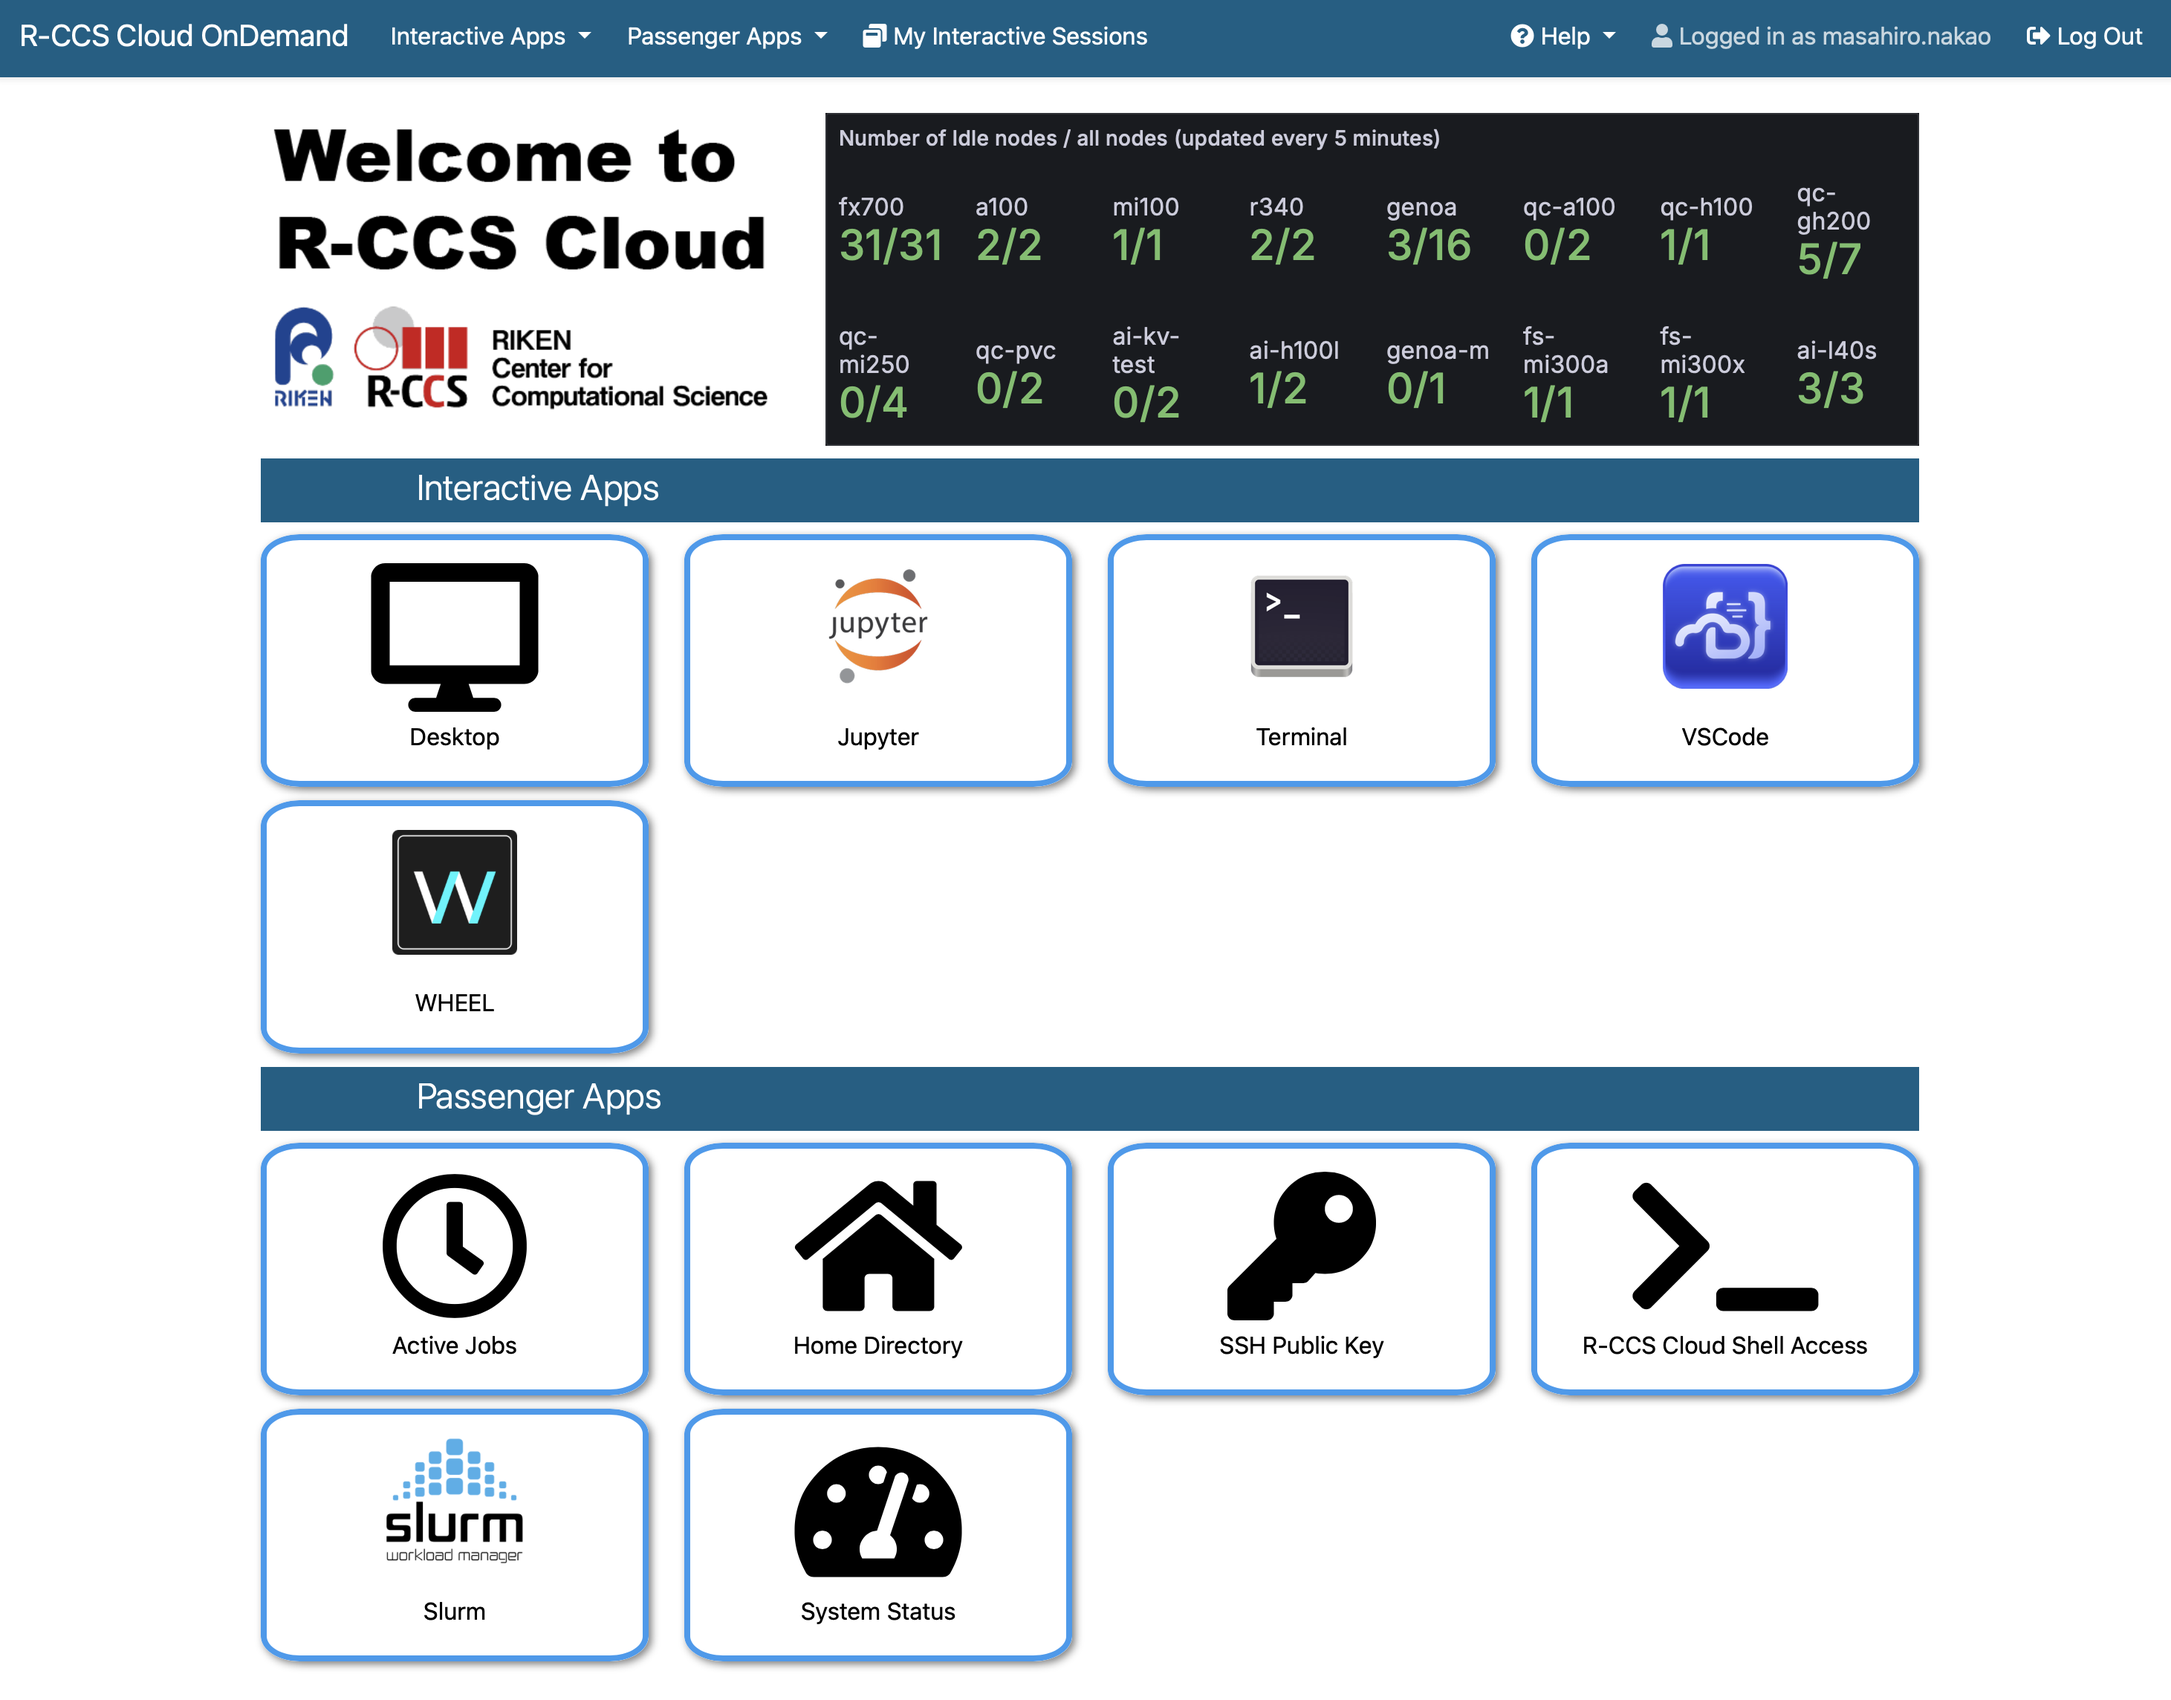
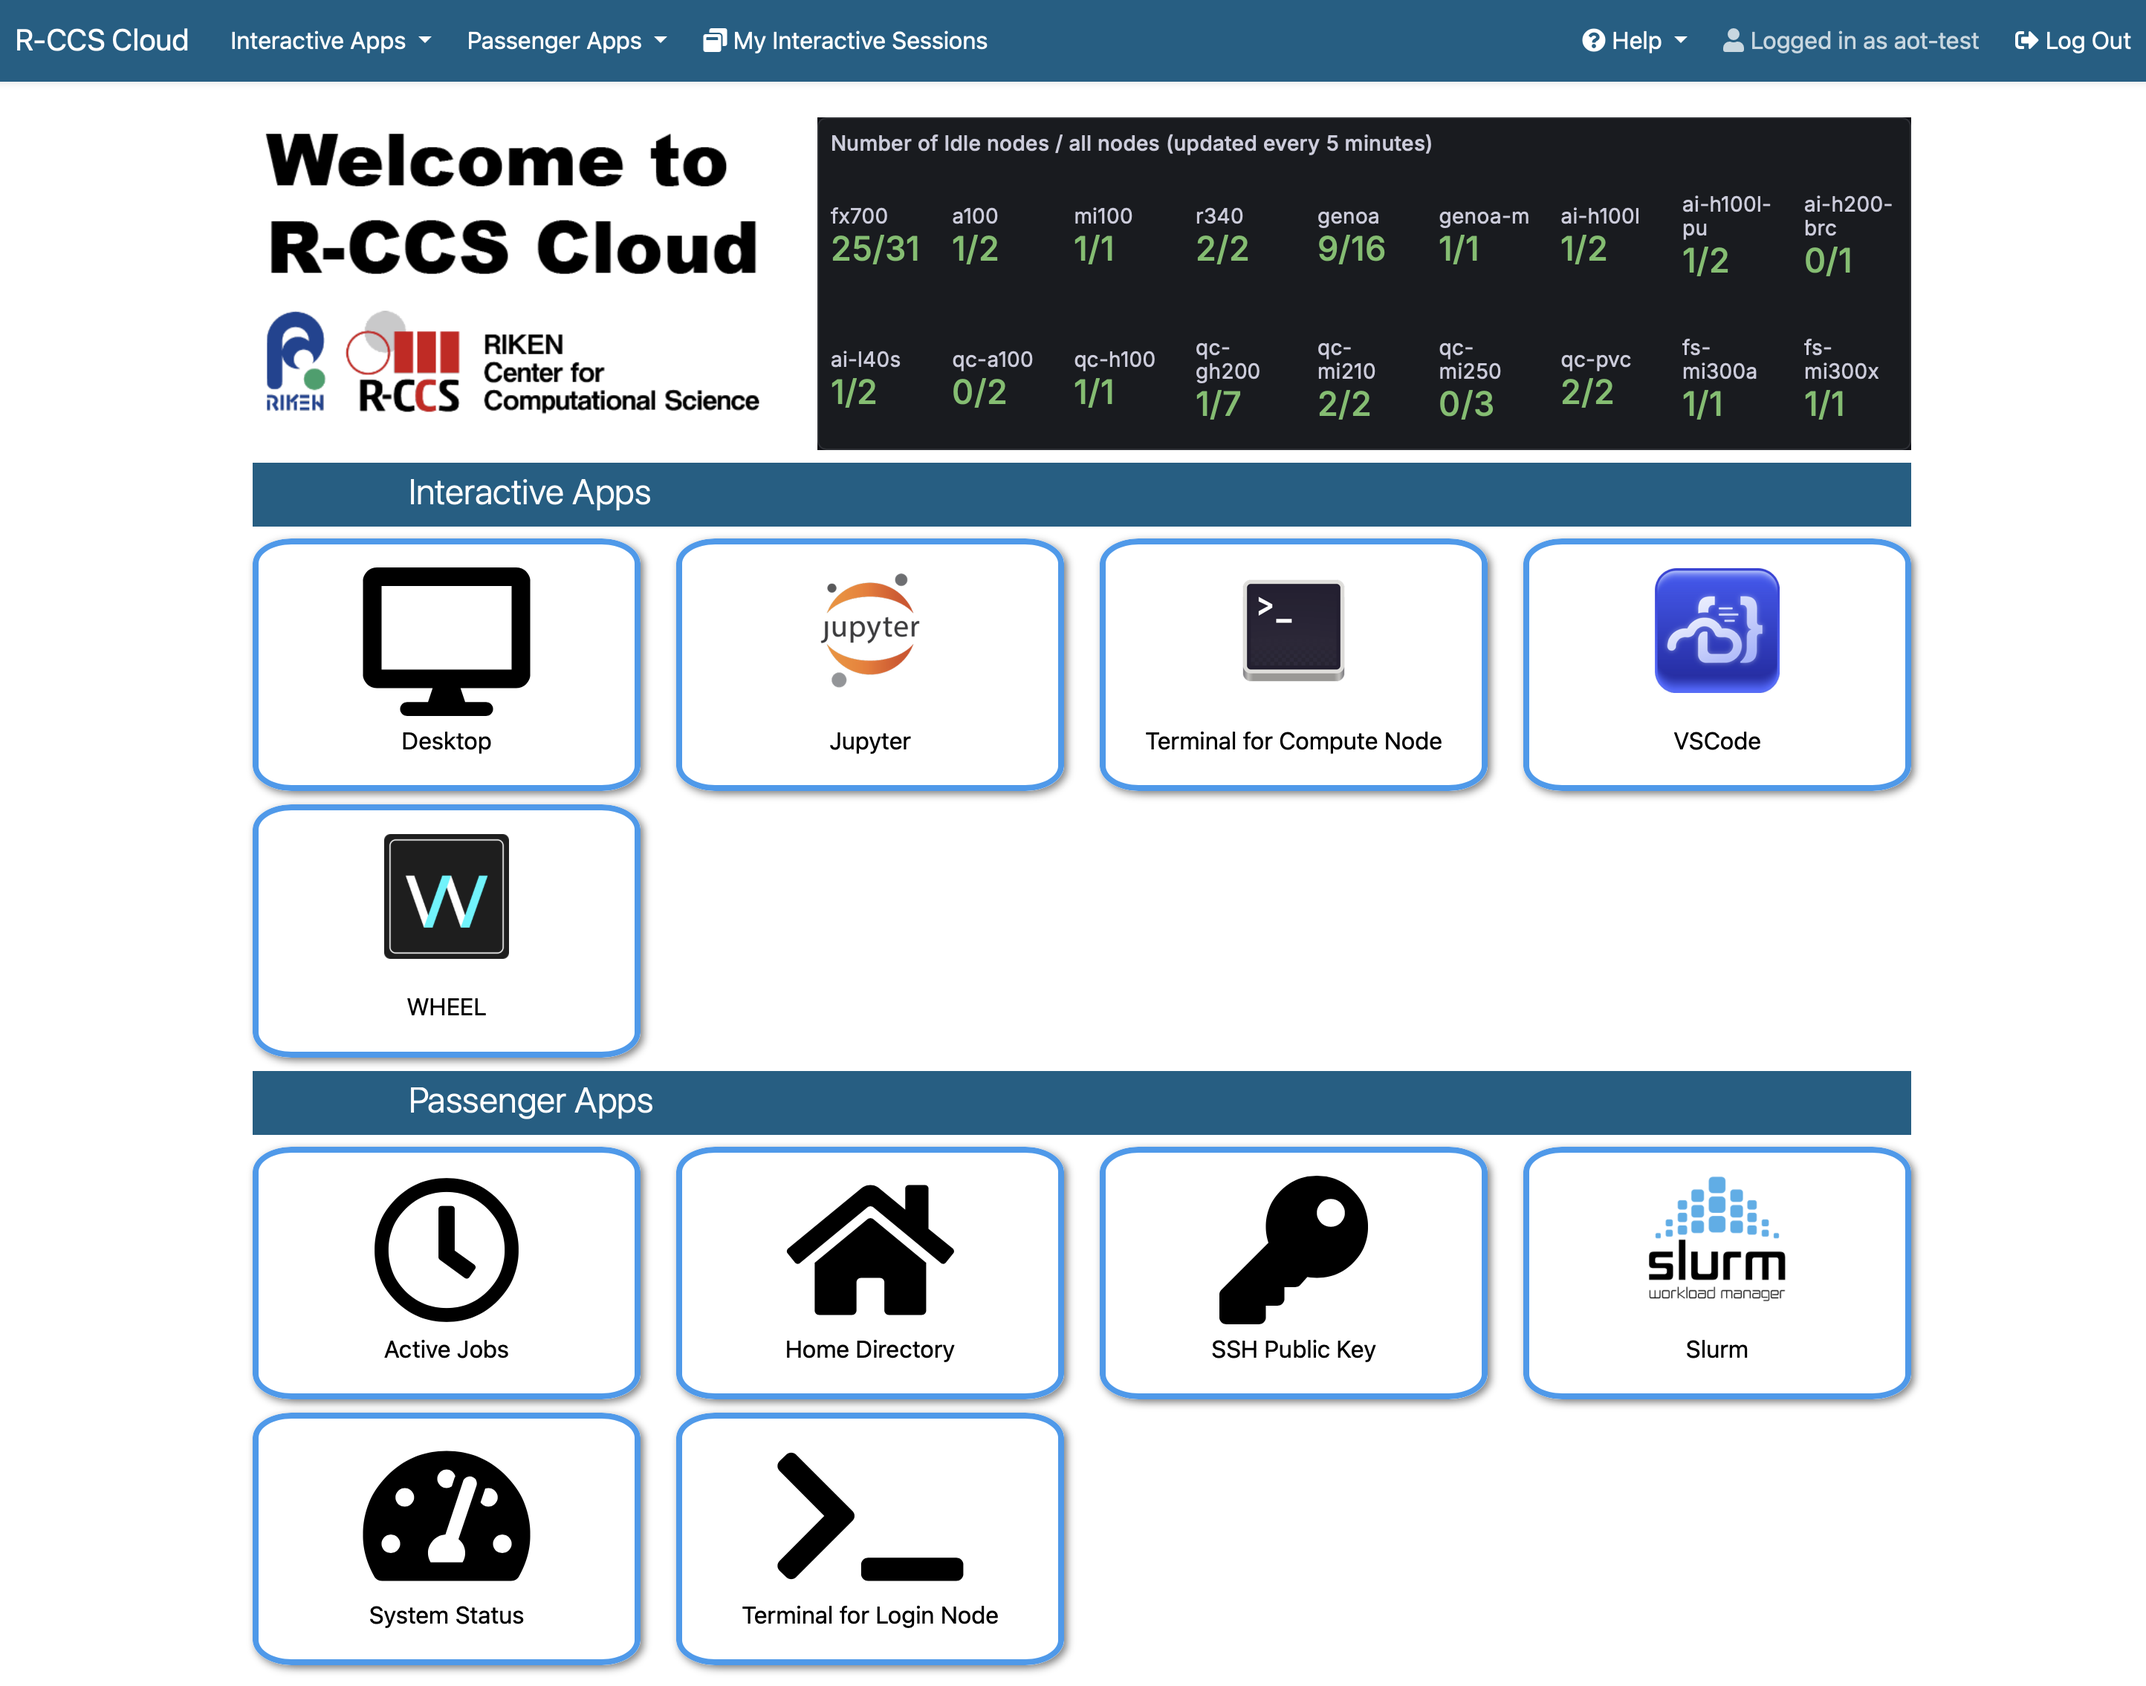
Change terminal application name

Changed region(s): [[0.0, 0.0, 0.9972, 1.0]]

diff --git a/docs/ood_ja.html b/docs/ood_ja.html
@@ -87,7 +87,7 @@
       <p>
      「Application」列のリンクをクリックすると、そのアプリケーションページが開きます。
       <p>
-      「Script Location」列のリンクをクリックすると、Open OnDemandの<a href="#file">Home Directory</a>が起動します。また、その横のターミナルアイコンをクリックすると、Open OnDemandの<a href="#shell">Shell Access</a>が起動します。
+      「Script Location」列のリンクをクリックすると、Open OnDemandの<a href="#file">Home Directory</a>が起動します。また、その横のターミナルアイコンをクリックすると、Open OnDemandの<a href="#shell">Terminal for Login Node</a>が起動します。
       </p>
       <p>
       「Script Name」列のリンクをクリックすると、送信されたシェルスクリプトの内容を表示するウィンドウが開きます。そのウィンドウの「Load Parameters」ボタンをクリックすると、パラメータが読み込まれたアプリケーションのページが開きます。
@@ -100,7 +100,7 @@
       <p>Home Directoryの各機能は下記の通りです。個別のファイルやディレクトリに対する操作は「3点＋下三角」のメニューから行えます。</p>
       <table class="table">
         <tr><th>ツールバー</th><th>説明</th></tr>
-        <tr><td>Open in Terminal</td><td>シェルアクセスを起動</td></tr>
+        <tr><td>Open in Terminal</td><td>ターミナルの起動</td></tr>
         <tr><td>Refresh</td><td>ページを再描画</td></tr>
         <tr><td>New File</td><td>新規ファイル作成</td></tr>
         <tr><td>New Directory</td><td>新規ディレクトリ作成</td></tr>
@@ -141,9 +141,9 @@
       <img width="600" alt="GakuNin RDM" src="img/grdm.png">
       <p>「Mount Path」にはR-CCSクラウド側のファイルシステムのマウントパス（例：<code>/home/rccs-aot/a00000/abc</code>）を、「RDM Node ID」はGakuNin RDMのプロジェクトのURL（<code>https://rdm.nii.ac.jp/xxx/</code>）の<code>xxx</code>の箇所を、「ROM Token」はGakuNin RDMのパーソナルアクセストークンを入力した後、「mount」ボタンをクリックください。</p>
      -->
-      <h3 id="shell">4.4. シェルアクセス</h3>
-      <p>R-CCS Cloud Shell Accessのアイコンをクリックください。WebブラウザからログインノードにSSHアクセスし、コマンドラインインタフェースを用いた操作を行うことができます。</p>
-      <img width="600" alt="Shell Access" src="img/shell_access.png">
+      <h3 id="shell">4.4. ターミナル</h3>
+      <p>Terminal for Login Nodeのアイコンをクリックください。WebブラウザからログインノードにSSHアクセスし、コマンドラインインタフェースを用いた操作を行うことができます。</p>
+      <img width="600" alt="Terminal for Login Node" src="img/shell_access.png">
 
       <h3>4.5. ジョブのモニタリング</h3>
       <p>Active Jobsのアイコンをクリックください。ジョブの情報を閲覧や削除を行うことができます。「ID」の列の左側のボタンをクリックすると、ジョブ詳細情報を表示できます。「Actions」の列のボタンをクリックすると、ジョブの削除を行えます。</p>

diff --git a/docs/ood.html b/docs/ood.html
@@ -107,7 +107,7 @@
       </p>
       <p>
         Clicking a link in the "Script Location" column opens Open OnDemand’s <a href="#file">Home Directory</a>.  
-        Clicking the adjacent terminal icon opens <a href="#shell">Shell Access</a>.
+        Clicking the adjacent terminal icon opens <a href="#shell">Terminal for Login Node</a>.
       </p>
       <p>
         Clicking a link in the "Script Name" column opens a window showing the submitted script.  
@@ -121,7 +121,7 @@
       <p>The functions of the Home Directory are as follows. Operations on individual files or directories can be performed from the "three-dot + triangle" menu.</p>
       <table class="table">
         <tr><th>Toolbar</th><th>Description</th></tr>
-        <tr><td>Open in Terminal</td><td>Launch shell access</td></tr>
+        <tr><td>Open in Terminal</td><td>Launch terminal</td></tr>
         <tr><td>Refresh</td><td>Reload the page</td></tr>
         <tr><td>New File</td><td>Create a new file</td></tr>
         <tr><td>New Directory</td><td>Create a new directory</td></tr>
@@ -154,9 +154,9 @@
         Note that the R-CCS Cloud Help Desk does not provide support for Rclone configuration.
       </p>
 
-      <h3 id="shell">4.4. Shell Access</h3>
-      <p>Click the R-CCS Cloud Shell Access icon. You can SSH into the login node via browser and operate with a command-line interface.</p>
-      <img width="600" alt="Shell Access" src="img/shell_access.png">
+      <h3 id="shell">4.4. Terminal for Login Node</h3>
+      <p>Click the Terminal for Login Node icon. You can SSH into the login node via browser and operate with a command-line interface.</p>
+      <img width="600" alt="Terminal for Login Node" src="img/shell_access.png">
 
       <h3>4.5. Job Monitoring</h3>
       <p>Click the Active Jobs icon. You can view and delete job information. Click the button left of "ID" to view details, and the "Actions" column button to cancel a job.</p>
